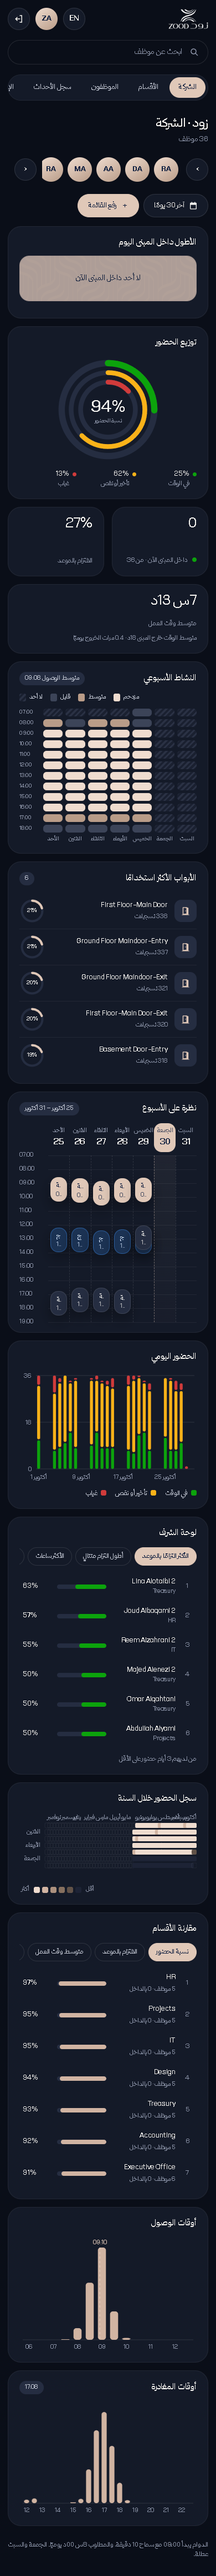
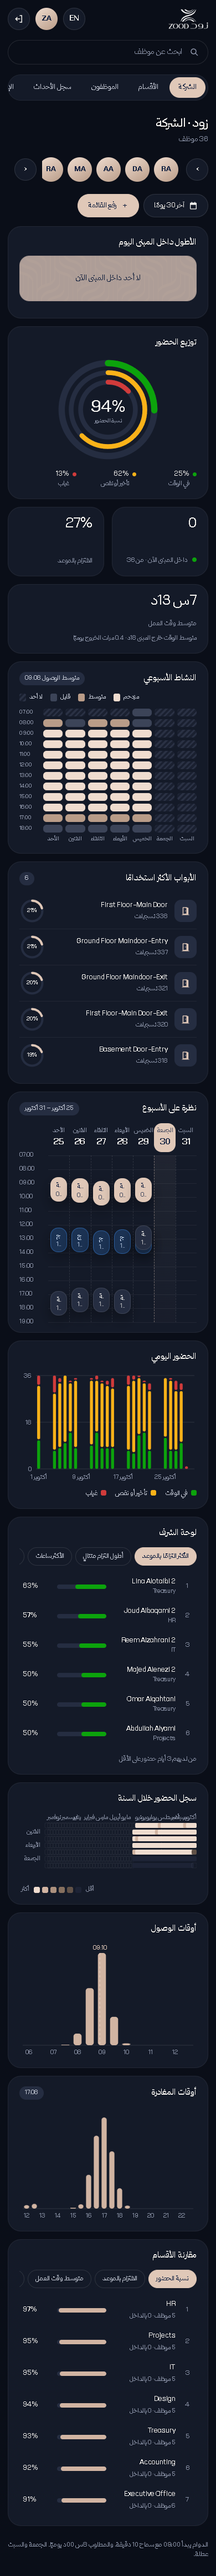
style: company page shows arrival and departure times side by side
Departments compared moves to its own full-width row, matching the department page. Screenshots retaken.

diff --git a/client/screens.tsx b/client/screens.tsx
@@ -195,11 +195,12 @@ function Overview({ lang, data, fetchedAt, grid, week, companyLevel }: { lang: L
     <Card title={w.dailyAttendance} className="span-8 chart-card"><DailyAttendance lang={lang} data={data.daily} /></Card>
     <Card title={w.leaders} className="span-4"><Leaderboard lang={lang} people={data.people} /></Card>
     <Card title={w.yearActivity} className="span-12"><>{grid ? <YearGrid lang={lang} days={grid.days} /> : <Loading />}</></Card>
-    {companyLevel && <Card title={w.byDepartment} className="span-6"><GroupCompare lang={lang} groups={data.departments} names={data.functionNames} link={g => deptHash(g.name)} /></Card>}
-    {/* A department shows arrivals and departures side by side, then its people across the full width. */}
-    <Card title={w.arrivals} className={`${companyLevel ? 'span-3' : 'span-6'} chart-card`}><TimeHistogram lang={lang} bins={data.arrivals} title={w.arrivals} marker={data.rules.workStartMinutes + data.rules.lateGraceMinutes} /></Card>
-    <Card title={w.departures} extra={<span className="pill">{minuteClock(k.medianDeparture)}</span>} className={`${companyLevel ? 'span-3' : 'span-6'} chart-card`}><TimeHistogram lang={lang} bins={data.departures} title={w.departures} /></Card>
-    {!companyLevel && <Card title={w.people} className="span-12"><MembersTable lang={lang} people={data.people} /></Card>}
+    {/* Arrivals and departures side by side, then departments (company) or people (department) across the full width. */}
+    <Card title={w.arrivals} className="span-6 chart-card"><TimeHistogram lang={lang} bins={data.arrivals} title={w.arrivals} marker={data.rules.workStartMinutes + data.rules.lateGraceMinutes} /></Card>
+    <Card title={w.departures} extra={<span className="pill">{minuteClock(k.medianDeparture)}</span>} className="span-6 chart-card"><TimeHistogram lang={lang} bins={data.departures} title={w.departures} /></Card>
+    {companyLevel
+      ? <Card title={w.byDepartment} className="span-12"><GroupCompare lang={lang} groups={data.departments} names={data.functionNames} link={g => deptHash(g.name)} /></Card>
+      : <Card title={w.people} className="span-12"><MembersTable lang={lang} people={data.people} /></Card>}
     <p className="foot span-12">{rulesText(lang, data.rules)}</p>
   </div>;
 }
